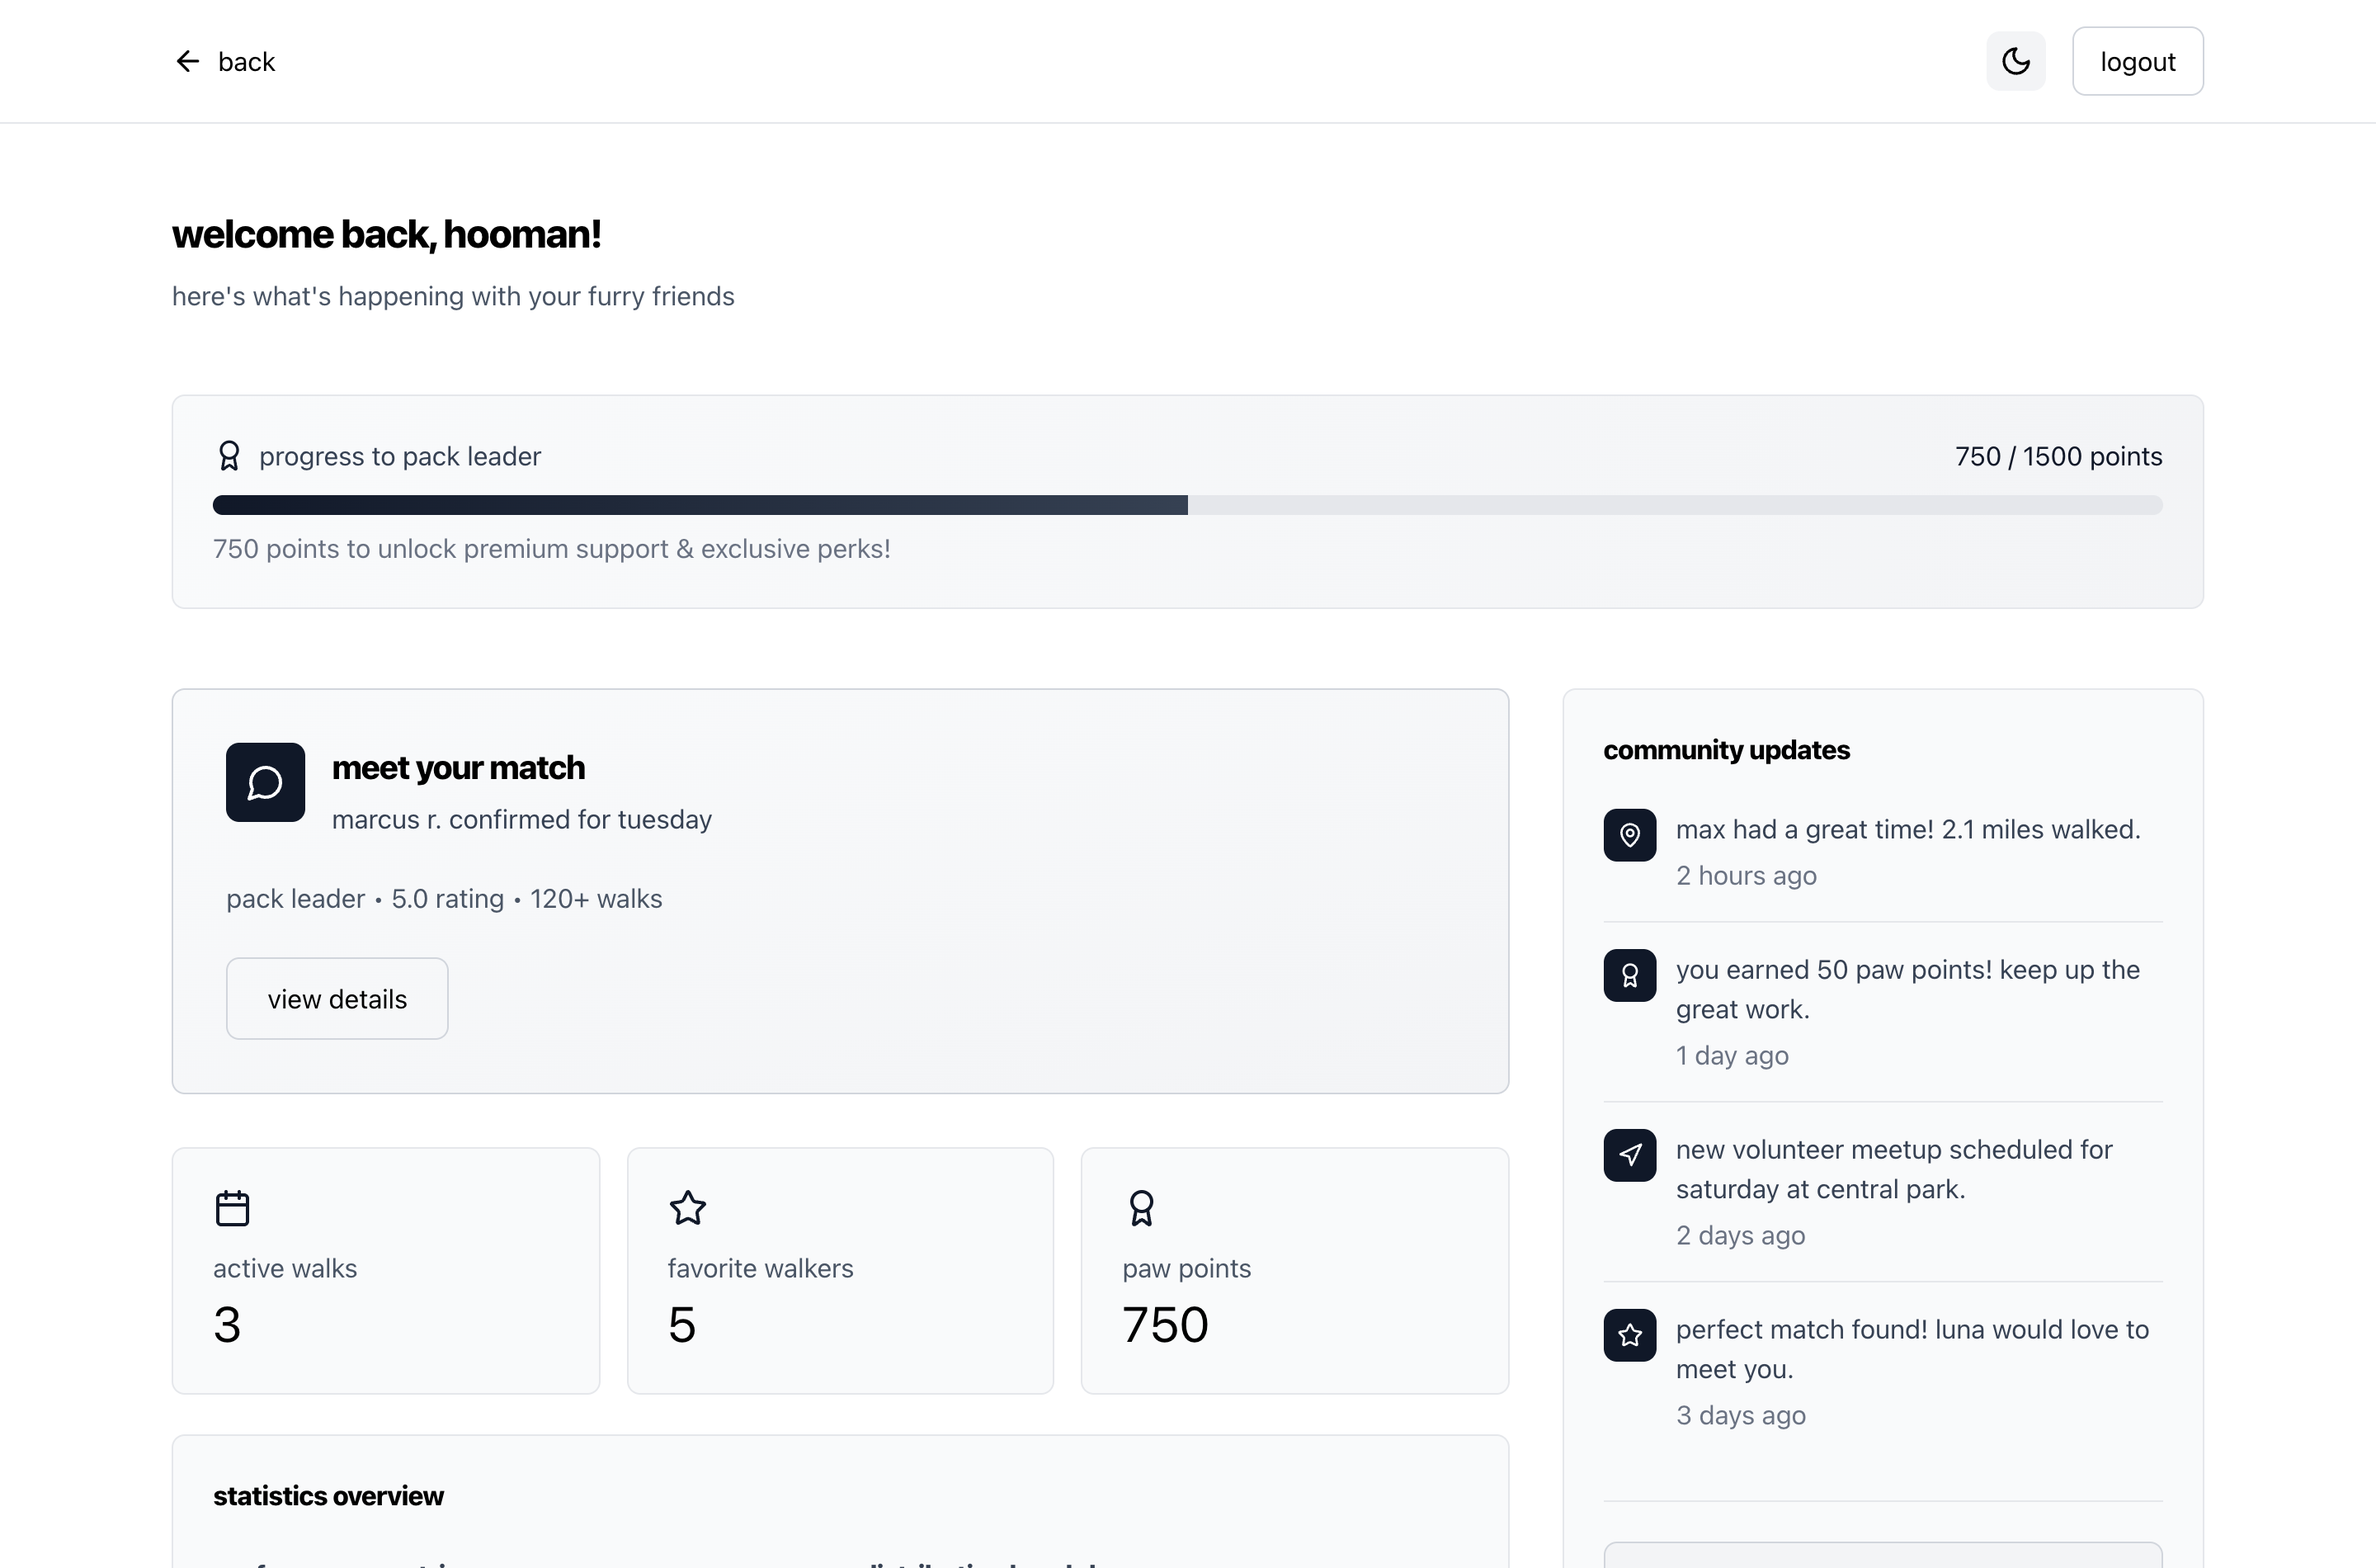
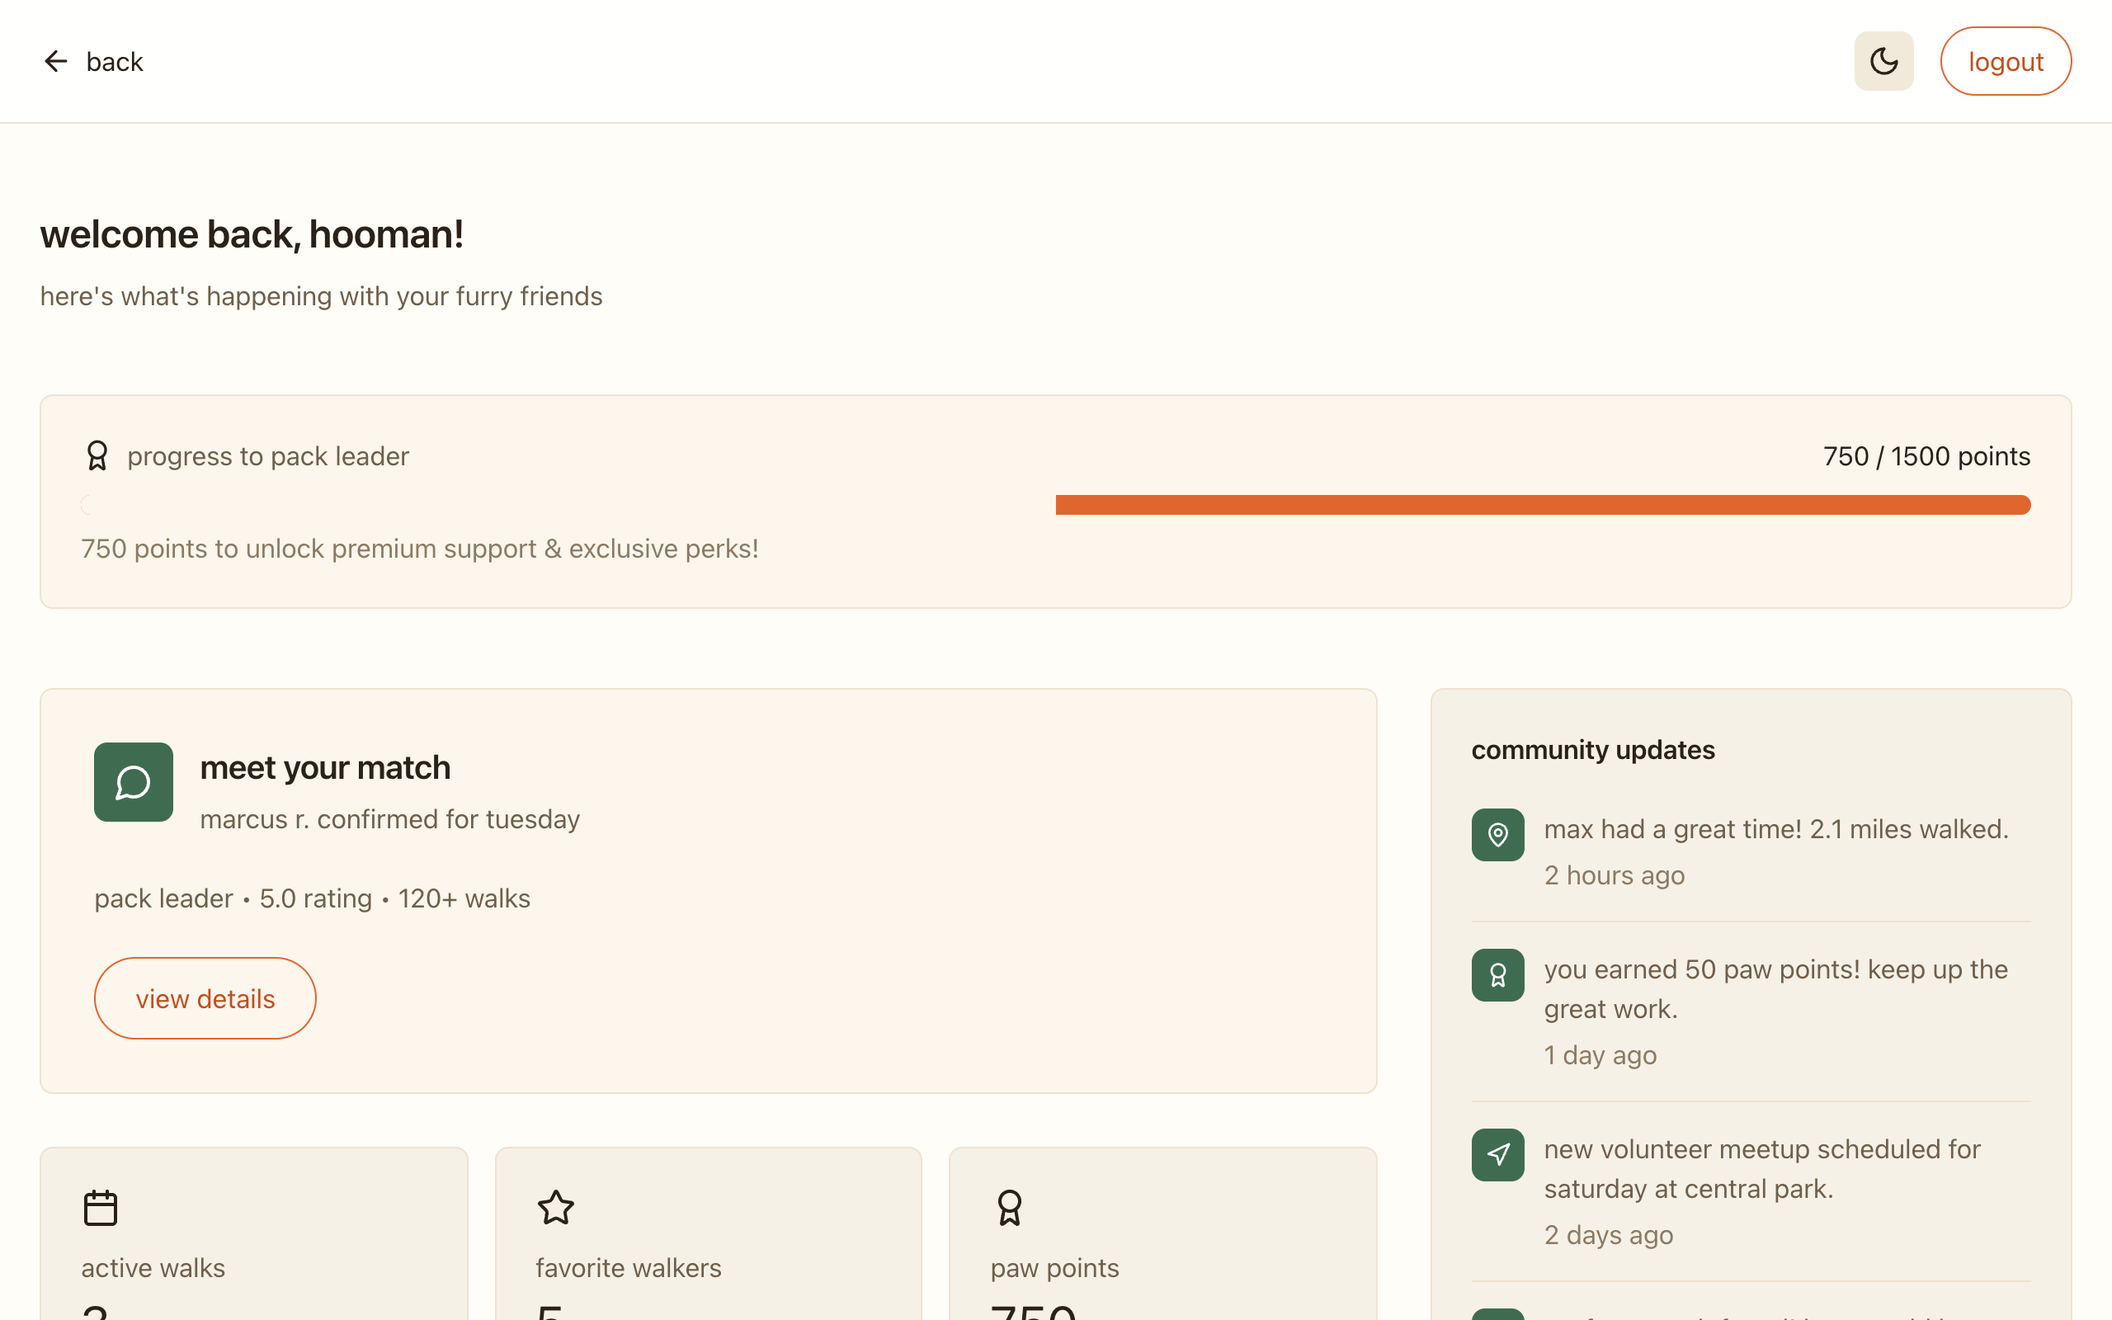
Tour: brand-energy screenshots + stacked-card scroll
Screenshots: all 7 app screens recaptured through a brand overlay
(shots-theme.css) that maps their grey Tailwind palette onto the site
system: cream grounds, orange CTAs and progress fills, gold badges,
forest-green chips, tan tracks; Fredoka/Nunito come along from the
shared fonts. Iterated three rounds against visual review until every
screen passed "warm cream + orange". Every capture is exactly the
1280x800 viewport at 2x, so all frames are identical.

Tour page: sections became sticky stacked cards. As you scroll, each
new card slides up and covers the last (pure CSS position:sticky,
z-index ordered), with alternating warm tints, an eyebrow chip with a
step counter (1/7..7/7), and every screenshot in an identical
1280/800 frame. Verified at 1440px and 390px: one uniform frame size
per viewport, cards pinning correctly, zero overflow, zero JS errors.

Capture rig (shots.html, src/shots.tsx, shots-theme.css) is committed
this time: dev-server-only tooling, excluded from the production build
(dist contains only index.html).

diff --git a/src/app/components/TourPage.tsx b/src/app/components/TourPage.tsx
@@ -253,73 +253,70 @@ export default function TourPage({ onHomeClick, onJoin, onAboutClick }: TourPage
             See what you're joining.
           </h1>
           <p style={{ fontSize: 18, lineHeight: 1.6, color: C.sub, maxWidth: 560, margin: '0 auto 10px', fontWeight: 400 }}>
-            These are real screens from the Proxypaw app, the one your community gets when the doors open. A walk through, before you walk in.
+            Real screens from the Proxypaw app, the one your community gets when the doors open. Keep scrolling: each screen stacks over the last.
           </p>
         </Reveal>
       </section>
 
-      {/* sections */}
-      <div style={{ ...shell, padding: '30px 28px 40px', display: 'flex', flexDirection: 'column', gap: 'clamp(70px, 9vw, 130px)' }}>
-        {SECTIONS.map((s, i) => {
-          const flip = i % 2 === 1;
+      {/* sections: sticky stacked cards — each new card slides over the last */}
+      <div style={{ ...shell, padding: `10px ${'{'}0{'}'} 40px`, position: 'relative' }}>
+        {SECTIONS.map((sec, i) => {
+          const tints = ['#fffdf8', '#f7f3e6', '#fdf6ec'];
           return (
             <section
-              key={s.id}
-              id={s.id}
-              style={{
-                display: 'grid',
-                gridTemplateColumns: 'repeat(auto-fit, minmax(min(100%, 420px), 1fr))',
-                gap: 'clamp(28px, 4.5vw, 64px)',
-                alignItems: 'center',
-              }}
+              key={sec.id}
+              id={sec.id}
+              style={{ position: 'sticky', top: 'clamp(64px, 8vh, 88px)', zIndex: i + 1, padding: '0 clamp(14px, 2.5vw, 28px)', marginBottom: 'clamp(28px, 4vh, 44px)' }}
             >
-              <Reveal>
-                <div style={{ order: flip ? 2 : 1 }}>
-                  <div style={{ display: 'inline-flex', alignItems: 'center', gap: 9, background: C.card, border: `1px solid ${C.cardBorder}`, borderRadius: 999, padding: '7px 16px 7px 8px', marginBottom: 20 }}>
-                    <span style={{ width: 28, height: 28, borderRadius: 999, background: s.accent, display: 'grid', placeItems: 'center' }}>
-                      <s.Icon size={15} color="#fff" />
+              <div
+                className="pp-stack-card"
+                style={{
+                  background: tints[i % tints.length],
+                  border: `1px solid ${C.cardBorder}`,
+                  borderRadius: 26,
+                  boxShadow: '0 -14px 40px rgba(74,52,24,.10), 0 18px 44px rgba(74,52,24,.10)',
+                  padding: 'clamp(20px, 2.8vw, 36px)',
+                  display: 'grid',
+                  gridTemplateColumns: 'repeat(auto-fit, minmax(min(100%, 380px), 1fr))',
+                  gap: 'clamp(20px, 3vw, 44px)',
+                  alignItems: 'center',
+                }}
+              >
+                <div>
+                  <div style={{ display: 'inline-flex', alignItems: 'center', gap: 9, background: '#f6f1e7', border: `1px solid ${C.cardBorder}`, borderRadius: 999, padding: '6px 14px 6px 7px', marginBottom: 16 }}>
+                    <span style={{ width: 26, height: 26, borderRadius: 999, background: sec.accent, display: 'grid', placeItems: 'center' }}>
+                      <sec.Icon size={14} color="#fff" />
                     </span>
-                    <span style={{ fontFamily: sora, fontWeight: 600, fontSize: 12.5, letterSpacing: '0.1em', color: C.muted }}>
-                      {s.eyebrow}
+                    <span style={{ fontFamily: sora, fontWeight: 600, fontSize: 11.5, letterSpacing: '0.1em', color: C.muted }}>
+                      {sec.eyebrow}
                     </span>
+                    <span style={{ fontFamily: sora, fontWeight: 600, fontSize: 11.5, color: C.muted2 }}>· {i + 1}/{SECTIONS.length}</span>
                   </div>
-                  <h2 style={{ fontFamily: sora, fontWeight: 600, fontSize: 'clamp(26px, 3vw, 38px)', letterSpacing: '-0.01em', lineHeight: 1.12, margin: '0 0 16px' }}>
-                    {s.title}
+                  <h2 style={{ fontFamily: sora, fontWeight: 600, fontSize: 'clamp(23px, 2.6vw, 32px)', letterSpacing: '-0.01em', lineHeight: 1.15, margin: '0 0 12px' }}>
+                    {sec.title}
                   </h2>
-                  <p style={{ fontSize: 16.5, lineHeight: 1.7, color: C.sub, margin: '0 0 22px', fontWeight: 400 }}>
-                    {s.body}
+                  <p style={{ fontSize: 15.5, lineHeight: 1.65, color: C.sub, margin: '0 0 16px', fontWeight: 400 }}>
+                    {sec.body}
                   </p>
                   <ul style={{ margin: 0, padding: 0, listStyle: 'none' }}>
-                    {s.points.map((p) => (
-                      <li key={p} style={{ display: 'flex', gap: 11, alignItems: 'flex-start', fontSize: 15, lineHeight: 1.6, color: C.sub, marginBottom: 10 }}>
-                        <span style={{ width: 7, height: 7, borderRadius: 999, background: s.accent, marginTop: 8, flexShrink: 0 }} />
-                        {p}
+                    {sec.points.map((pt) => (
+                      <li key={pt} style={{ display: 'flex', gap: 10, alignItems: 'flex-start', fontSize: 14, lineHeight: 1.55, color: C.sub, marginBottom: 8 }}>
+                        <span style={{ width: 7, height: 7, borderRadius: 999, background: sec.accent, marginTop: 7, flexShrink: 0 }} />
+                        {pt}
                       </li>
                     ))}
                   </ul>
                 </div>
-              </Reveal>
 
-              <Reveal delay={120}>
-                <div
-                  className="pp-shot"
-                  style={{
-                    order: flip ? 1 : 2,
-                    borderRadius: 24,
-                    overflow: 'hidden',
-                    border: `1px solid ${C.cardBorder}`,
-                    boxShadow: '0 30px 70px rgba(74,52,24,.16)',
-                    background: C.card,
-                  }}
-                >
+                <div style={{ borderRadius: 18, overflow: 'hidden', border: `1px solid ${C.cardBorder}`, boxShadow: '0 16px 40px rgba(74,52,24,.12)', background: '#fffdf8' }}>
                   <img
-                    src={s.shot}
-                    alt={s.alt}
+                    src={sec.shot}
+                    alt={sec.alt}
                     loading="lazy"
-                    style={{ display: 'block', width: '100%', height: 'auto' }}
+                    style={{ display: 'block', width: '100%', aspectRatio: '1280 / 800', objectFit: 'cover', objectPosition: 'top' }}
                   />
                 </div>
-              </Reveal>
+              </div>
             </section>
           );
         })}

diff --git a/shots-theme.css b/shots-theme.css
@@ -1,0 +1,58 @@
+/* Temporary brand-energy overlay for app screenshots only (not shipped).
+   Maps the app screens' grey Tailwind palette onto proxypaw's system. */
+body { background: #f6f1e7 !important; }
+.bg-white { background: #fffdf8 !important; }
+.bg-gray-50 { background: #f6f1e7 !important; }
+.bg-gray-100, .bg-gray-200 { background: #f1eadb !important; }
+div.bg-gray-900, div.bg-black, span.bg-gray-900, span.bg-black { background: #2a2118 !important; }
+button.bg-gray-900, button.bg-black, a.bg-gray-900, a.bg-black { background: #e0662f !important; border-radius: 999px !important; }
+.text-gray-900, .text-black { color: #2a2118 !important; }
+.text-gray-700, .text-gray-600 { color: #6f5f4b !important; }
+.text-gray-500, .text-gray-400 { color: #8b7a63 !important; }
+.border-gray-100, .border-gray-200, .border-gray-300, .border { border-color: #eee3cf !important; }
+.bg-green-100 { background: #eef0e4 !important; }
+.text-green-600, .text-green-700 { color: #3f6c51 !important; }
+.bg-green-500, .bg-green-600 { background: #3f6c51 !important; }
+.bg-blue-500, .bg-blue-600, .bg-indigo-500 { background: #3f6c51 !important; }
+.bg-yellow-400, .bg-amber-400 { background: #f0b429 !important; }
+.text-yellow-500, .text-amber-500 { color: #c9a227 !important; }
+.bg-red-500 { background: #c24e1d !important; }
+.rounded-lg, .rounded-xl { border-radius: 16px !important; }
+.rounded-2xl { border-radius: 20px !important; }
+.shadow, .shadow-sm, .shadow-md { box-shadow: 0 6px 18px rgba(74,52,24,.08) !important; }
+input, select, textarea { background: #f6f1e7 !important; border-color: #d9cbb2 !important; border-radius: 14px !important; }
+/* progress bars and accents */
+.bg-gray-900.h-2, .bg-black.h-2, [class*="progress"] > div { background: #e0662f !important; }
+/* subtle warm ground instead of stark white page headers */
+header.bg-white, .sticky.bg-white { background: #fdf9f0 !important; }
+
+/* --- round 2, from the visual review --- */
+/* gradients (payment page ground, dashboard headers) -> flat warm cream */
+[class*="bg-gradient"] { background: #f6f1e7 !important; }
+/* the widest grey family used by these screens */
+[class*="bg-gray-950"], [class*="bg-gray-900"], [class*="bg-black"] { background: #2a2118 !important; }
+[class*="bg-gray-800"], [class*="bg-gray-700"] { background: #3f6c51 !important; }
+[class*="bg-gray-600"], [class*="bg-gray-400"], [class*="bg-gray-300"] { background: #d9cbb2 !important; }
+/* every button that was dark or grey becomes the brand CTA */
+button[class*="bg-gray-9"], button[class*="bg-black"], button[class*="bg-gradient"] { background: #e0662f !important; color: #fff !important; border-radius: 999px !important; }
+button:disabled { background: #e9ddc8 !important; color: #a08e73 !important; }
+/* outline ghost buttons pick up the brand */
+button[class*="border"] { border-color: #e0662f !important; color: #c24e1d !important; border-radius: 999px !important; }
+button[class*="border"][class*="bg-gray-9"], button[class*="border"][class*="bg-black"] { color: #fff !important; }
+/* progress fills: any short dark bar -> orange on a sand track */
+[class*="h-2"][class*="bg-gray"], [class*="h-2"][class*="bg-black"], [class*="h-3"][class*="bg-gray"], [class*="h-1.5"][class*="bg-gray"] { background: #e0662f !important; }
+[class*="h-2"][class*="bg-gray-2"], [class*="h-2"][class*="bg-gray-1"] { background: #f1eadb !important; }
+/* pill badges (top rated, tiers): gold with ink text */
+span[class*="rounded-full"][class*="bg-gray-9"], span[class*="rounded-full"][class*="bg-black"], div[class*="rounded-full"][class*="bg-gray-9"] { background: #f0b429 !important; color: #2a2118 !important; }
+/* small icon chips go orange for warmth */
+div[class*="w-8"][class*="bg-gray-9"], div[class*="w-10"][class*="bg-gray-9"], div[class*="w-8"][class*="bg-black"], div[class*="w-10"][class*="bg-black"], div[class*="w-12"][class*="bg-gray-9"] { background: #e0662f !important; }
+
+/* --- round 3 --- */
+/* marketing screenshots show the ENABLED state: disabled still gets full CTA colour */
+button:disabled { background: #e0662f !important; color: #fff !important; opacity: 1 !important; }
+/* progress track must be visible against cream cards */
+[class*="h-2"][class*="bg-gray-2"], [class*="h-2"][class*="bg-gray-1"], [class*="h-1.5"][class*="bg-gray-2"] { background: #e9ddc8 !important; }
+/* card gradients: a touch warmer than the page so cards read as cards */
+[class*="bg-gradient"] { background: #fdf6ec !important; }
+/* small dark icon chips -> forest green (padding-constrained so big panels stay ink) */
+div[class*="p-2"][class*="bg-gray-9"], div[class*="p-3"][class*="bg-gray-9"], div[class*="p-2"][class*="bg-black"], div[class*="p-2.5"][class*="bg-gray-9"] { background: #3f6c51 !important; }

diff --git a/src/shots.tsx b/src/shots.tsx
@@ -1,0 +1,33 @@
+// TEMPORARY screenshot harness — deleted after capture. Not part of the app.
+import { createRoot } from 'react-dom/client';
+import { ThemeProvider } from './app/contexts/ThemeContext';
+import Dashboard from './app/components/Dashboard';
+import VolunteerList from './app/components/VolunteerList';
+import BookingPage from './app/components/BookingPage';
+import PaymentScreen from './app/components/PaymentScreen';
+import BookingsScreen from './app/components/BookingsScreen';
+import CommunityPets from './app/components/CommunityPets';
+import SafetyTrainingModule from './app/components/SafetyTrainingModule';
+import './styles/index.css';
+
+const noop = () => {};
+const booking = {
+  volunteerId: 'v1', volunteerName: 'sarah m.', date: '2026-09-04',
+  time: '7:00 AM', duration: 60, totalAmount: 249,
+};
+
+const screen = new URLSearchParams(location.search).get('s') ?? 'dashboard';
+
+const SCREENS: Record<string, JSX.Element> = {
+  dashboard: <Dashboard userRole="owner" onBackHome={noop} onLogout={noop} onSupportClick={noop} onTrainingClick={noop} onCommunityClick={noop} onVolunteersClick={noop} onBookingClick={noop} onBookingsClick={noop} />,
+  volunteers: <VolunteerList onBack={noop} userRole="owner" onProceedToPayment={noop} />,
+  booking: <BookingPage onBack={noop} userRole="owner" onProceedToPayment={noop} />,
+  payment: <PaymentScreen onBack={noop} onPaymentComplete={noop} bookingDetails={booking} />,
+  bookings: <BookingsScreen onBack={noop} userRole="owner" />,
+  community: <CommunityPets onBack={noop} userRole="owner" userId="demo" />,
+  safety: <SafetyTrainingModule onBack={noop} userRole="owner" />,
+};
+
+createRoot(document.getElementById('root')!).render(
+  <ThemeProvider>{SCREENS[screen] ?? <div>unknown: {screen}</div>}</ThemeProvider>,
+);

diff --git a/shots.html b/shots.html
@@ -1,0 +1,5 @@
+<!DOCTYPE html><html lang="en"><head><meta charset="UTF-8"><title>shots</title>
+<style>html,body{height:100%;margin:0}#root{height:100%}</style>
+<link rel="stylesheet" href="/shots-theme.css"></head>
+<body><div id="root"></div><script type="module" src="/src/shots.tsx"></script></body>
+</html>
